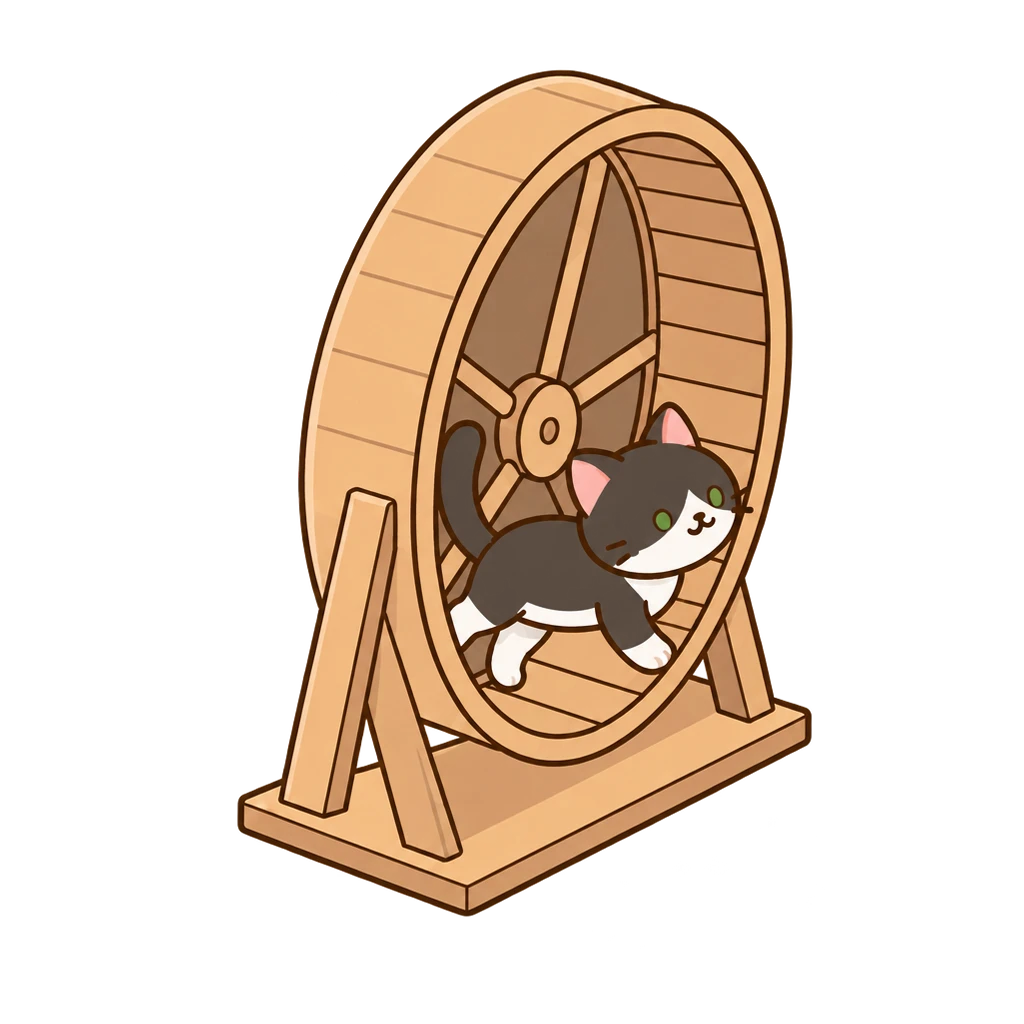
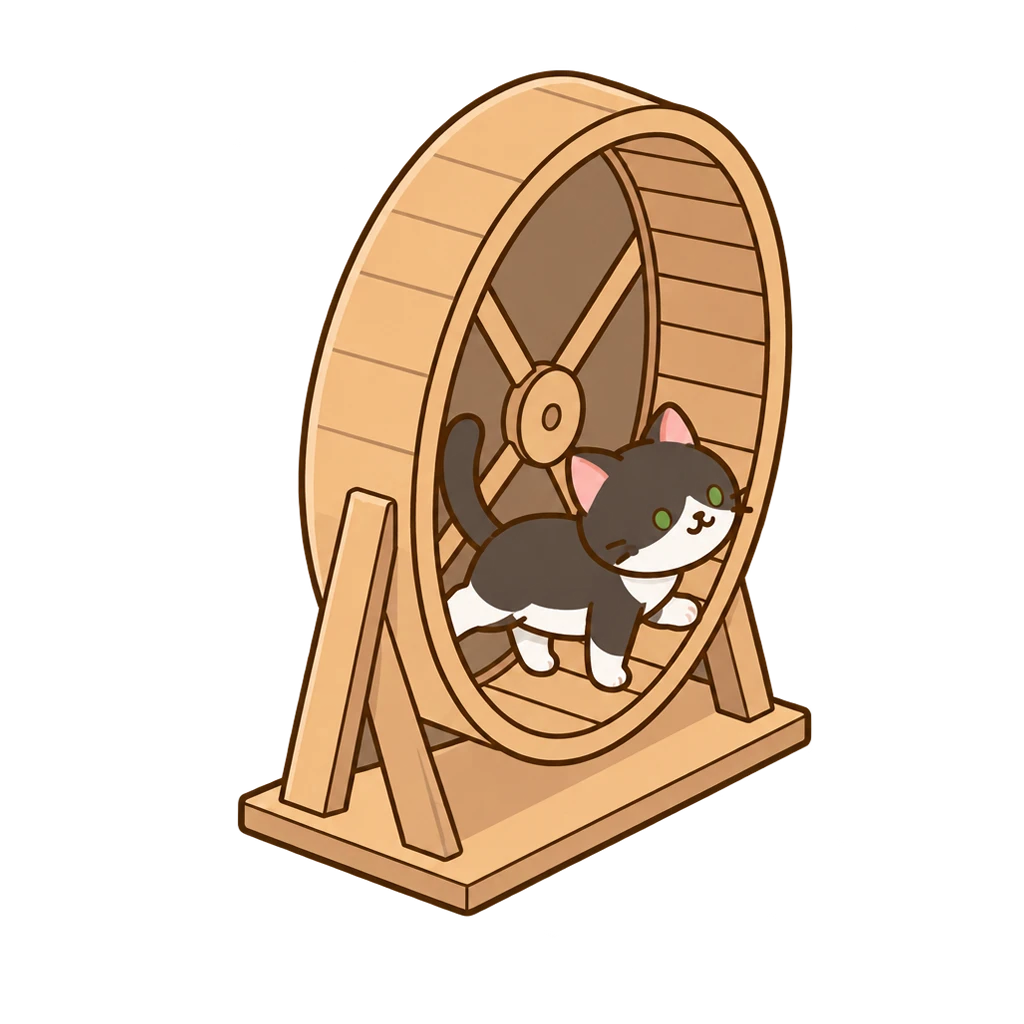
fix: 단추 캣휠 2장째 다시 · 댓돌 고양이와 고무신 자리 맞바꿈

diff --git a/src/components/house/spots.ts b/src/components/house/spots.ts
@@ -207,7 +207,7 @@ export const SPOTS: Record<SpotId, Spot> = {
   stone: {
     id: "stone",
     kind: "wait",
-    feet: { x: 1050, y: 645 },
+    feet: { x: 990, y: 600 },
     poses: ["sit"],
     motion: { sit: "wait" },
     bubble: ["left", "above"],
